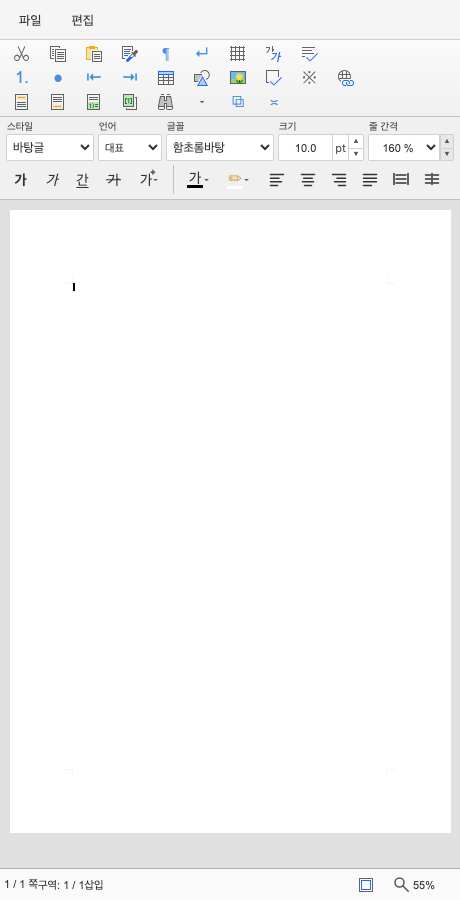
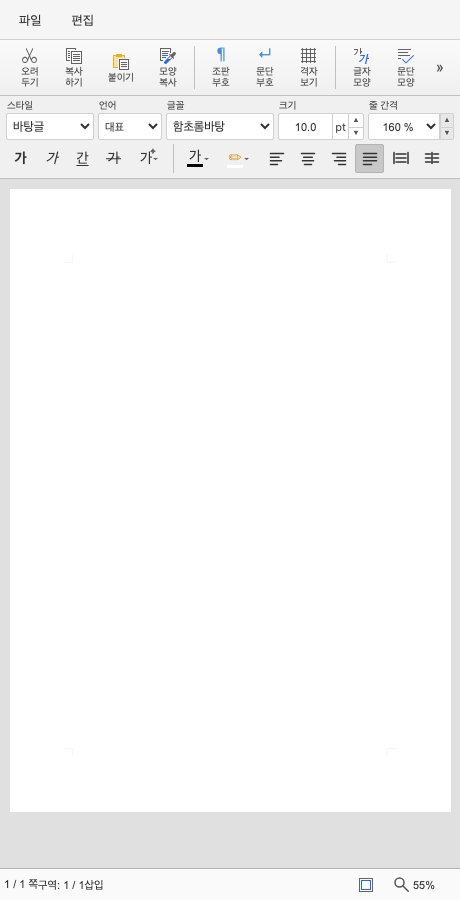
fix(studio): #6118 #6138 상단 chrome 시작축을 보정한다

Changed region(s): [[0.0, 0.0311, 1.0, 0.2489], [0.0, 0.9022, 1.0, 0.9333]]

diff --git a/rhwp-studio/tests/responsive-toolbar-layout.test.ts b/rhwp-studio/tests/responsive-toolbar-layout.test.ts
@@ -38,7 +38,7 @@ test('style ribbon has only measured one-row and two-row structures', () => {
   assert.match(styleBar, /#style-bar\s*\{[^}]*overflow:\s*visible;/s);
   assert.match(
     styleBar,
-    /@media\s*\(min-width:\s*976px\)\s*\{[\s\S]*?#style-bar\s*\{[^}]*display:\s*flex;[^}]*flex-wrap:\s*nowrap;/,
+    /@media\s*\(min-width:\s*992px\)\s*\{[\s\S]*?#style-bar\s*\{[^}]*display:\s*flex;[^}]*flex-wrap:\s*nowrap;/,
   );
   assert.match(
     styleBar,
@@ -50,7 +50,7 @@ test('style ribbon has only measured one-row and two-row structures', () => {
 test('style ribbon boundaries are content-derived and paragraph overflow never adds a third row', () => {
   assert.match(
     styleBar,
-    /@media\s*\(min-width:\s*976px\)/,
+    /@media\s*\(min-width:\s*992px\)/,
   );
   assert.match(
     styleBar,
@@ -62,4 +62,12 @@ test('style ribbon boundaries are content-derived and paragraph overflow never a
   );
   assert.doesNotMatch(responsive, /@media\s*\(min-width:\s*768px\) and \(max-width:\s*1023px\)/);
   assert.doesNotMatch(responsive, /#style-bar\s*\{[^}]*(?:flex-direction|grid-template-columns)/s);
+});
+
+test('desktop style ribbon uses the menu text visual anchor without spending compact width', () => {
+  assert.match(
+    styleBar,
+    /@media\s*\(min-width:\s*992px\)[\s\S]*?#style-bar\s*\{[^}]*padding:\s*var\(--style-bar-full-padding-top, 3px\) 8px 3px 22px;/,
+  );
+  assert.match(styleBar, /#style-bar\s*\{[^}]*padding:\s*4px 6px 5px;/s);
 });

diff --git a/rhwp-studio/tests/icon-toolbar-scroller.test.ts b/rhwp-studio/tests/icon-toolbar-scroller.test.ts
@@ -49,9 +49,12 @@ test('controller owns resize, mode, focus, keyboard, and end-state synchronizati
   assert.match(source, /dispose\(\): void/);
 });
 
-test('edge navigation keeps its slot while disappearing visually', () => {
+test('edge navigation collapses its slot while disappearing visually', () => {
   assert.match(toolbarCss, /\.tb-scroll-nav\.tb-scroll-nav-edge-hidden\s*\{[^}]*visibility:\s*hidden;/s);
   assert.match(toolbarCss, /\.tb-scroll-nav\.tb-scroll-nav-edge-hidden\s*\{[^}]*pointer-events:\s*none;/s);
+  assert.match(toolbarCss, /\.tb-scroll-nav\.tb-scroll-nav-edge-hidden\s*\{[^}]*flex-basis:\s*0;/s);
+  assert.match(toolbarCss, /\.tb-scroll-nav\.tb-scroll-nav-edge-hidden\s*\{[^}]*width:\s*0;/s);
+  assert.match(toolbarCss, /\.tb-scroll-nav\.tb-scroll-nav-edge-hidden\s*\{[^}]*min-width:\s*0;/s);
   assert.doesNotMatch(toolbarCss, /\.tb-scroll-nav\.tb-scroll-nav-edge-hidden\s*\{[^}]*display:\s*none;/s);
 });
 

diff --git a/rhwp-studio/tests/style-toolbar-overflow.test.ts b/rhwp-studio/tests/style-toolbar-overflow.test.ts
@@ -8,10 +8,10 @@ const source = readFileSync(new URL('../src/ui/style-toolbar-overflow.ts', impor
 const toolbar = readFileSync(new URL('../src/ui/toolbar.ts', import.meta.url), 'utf8');
 
 test('style toolbar breakpoints share the measured Stage 1 constants', () => {
-  assert.match(source, /STYLE_TOOLBAR_FULL_ROW_MIN = 976/);
+  assert.match(source, /STYLE_TOOLBAR_FULL_ROW_MIN = 992/);
   assert.match(source, /STYLE_TOOLBAR_COMMAND_INLINE_MIN = 460/);
   assert.match(source, /STYLE_TOOLBAR_COMMAND_INLINE_MIN - 1/);
-  assert.match(styles, /@media \(min-width: 976px\)/);
+  assert.match(styles, /@media \(min-width: 992px\)/);
   assert.match(styles, /@media \(max-width: 459px\)/);
 });
 

diff --git a/rhwp-studio/src/styles/style-bar.css b/rhwp-studio/src/styles/style-bar.css
@@ -746,8 +746,8 @@
   border-radius: 0;
 }
 
-/* 모든 콘텐츠가 들어가는 경계: 949.84px 콘텐츠 + chrome/safety = 976px. */
-@media (min-width: 976px) {
+/* 949.84px 콘텐츠 + 좌측 시각축 22px + 우측 8px + safety = 992px. */
+@media (min-width: 992px) {
   #style-bar {
     display: flex;
     flex-wrap: nowrap;
@@ -756,7 +756,7 @@
     align-content: center;
     justify-content: flex-start;
     gap: 0;
-    padding: var(--style-bar-full-padding-top, 3px) 6px 3px;
+    padding: var(--style-bar-full-padding-top, 3px) 8px 3px 22px;
   }
 
   .sb-field-ribbon-group {

diff --git a/rhwp-studio/src/styles/toolbar.css b/rhwp-studio/src/styles/toolbar.css
@@ -63,8 +63,13 @@
   display: none;
 }
 
-/* 끝에서는 해당 방향 버튼만 감추고 24px slot은 padding처럼 남겨 viewport 폭을 안정시킨다. */
+/* 끝에서는 해당 방향 버튼의 slot까지 접어 toolbar 고유 8px padding을 복원한다. */
 .tb-scroll-nav.tb-scroll-nav-edge-hidden {
+  flex-basis: 0;
+  width: 0;
+  min-width: 0;
+  overflow: hidden;
+  border-width: 0;
   visibility: hidden;
   pointer-events: none;
 }

diff --git a/rhwp-studio/tests/theme-skin.test.ts b/rhwp-studio/tests/theme-skin.test.ts
@@ -104,6 +104,6 @@ test('올드스쿨 스킨의 단일 행 서식 바는 양쪽 베벨을 포함해
   assert.match(oldschool, /--style-bar-full-padding-top:\s*2px/);
   assert.match(
     styleBar,
-    /@media \(min-width: 976px\)[\s\S]*padding:\s*var\(--style-bar-full-padding-top, 3px\) 6px 3px/,
+    /@media \(min-width: 992px\)[\s\S]*padding:\s*var\(--style-bar-full-padding-top, 3px\) 8px 3px 22px/,
   );
 });

diff --git a/rhwp-studio/src/ui/style-toolbar-overflow.ts b/rhwp-studio/src/ui/style-toolbar-overflow.ts
@@ -1,4 +1,4 @@
-export const STYLE_TOOLBAR_FULL_ROW_MIN = 976;
+export const STYLE_TOOLBAR_FULL_ROW_MIN = 992;
 export const STYLE_TOOLBAR_COMMAND_INLINE_MIN = 460;
 export const STYLE_TOOLBAR_OVERFLOW_QUERY = `(max-width: ${STYLE_TOOLBAR_COMMAND_INLINE_MIN - 1}px)`;
 

diff --git a/mydocs/working/task_m100_6118_stage3.md b/mydocs/working/task_m100_6118_stage3.md
@@ -12,16 +12,16 @@ Stage 2의 7개 viewport를 12개로 늘려 콘텐츠 경계와 일반 구간을
 
 | 구간 | viewport | 결과 |
 | --- | --- | --- |
-| 전체 압축 1행 | 1920, 1280, 1024, 976px | 1행, 36px, paragraph inline, root/style overflow 0 |
-| 압축 2행 inline | 975, 883, 768, 460px | 2행, 83px, paragraph inline, root/style overflow 0 |
+| 전체 압축 1행 | 1920, 1280, 1024, 992px | 1행, 36px, paragraph inline, root/style overflow 0 |
+| 압축 2행 inline | 991, 883, 768, 460px | 2행, 83px, paragraph inline, root/style overflow 0 |
 | 압축 2행 더보기 | 459, 412, 390, 375px | 2행, 83px, paragraph panel, root/style overflow 0 |
 
-경계 ±1px은 976/975px과 460/459px에서 정확히 전환됐다. 375px에서도 field 행이 내부 폭을 넘지
+경계 ±1px은 992/991px과 460/459px에서 정확히 전환됐다. 375px에서도 field 행이 내부 폭을 넘지
 않았고, 문단 명령은 더보기로 모두 도달 가능했다.
 
 ## 2. 테마·스킨 매트릭스
 
-`default`, `flat`, `oldschool` 각각에 light/dark를 적용하고 976px 단일 행, 460px inline 2행,
+`default`, `flat`, `oldschool` 각각에 light/dark를 적용하고 992px 단일 행, 460px inline 2행,
 375px 더보기 2행을 전수 검사했다. 총 18개 조합 모두 배경·경계·아이콘 대비와 panel 대비가 판정
 기준을 통과했다.
 
@@ -37,7 +37,7 @@ Stage 2의 7개 viewport를 12개로 늘려 콘텐츠 경계와 일반 구간을
 
 ## 3. 상호작용 검증
 
-- 976px에서 글자 크기 입력, 글자 효과 dropdown, 형광펜 palette, 글자색 input을 실제로 조작했다.
+- 992px에서 글자 크기 입력, 글자 효과 dropdown, 형광펜 palette, 글자색 input을 실제로 조작했다.
 - 459~375px에서 click·ArrowDown 열기, 첫 명령 focus, Escape 닫기와 trigger focus 복귀를 확인했다.
 - 외부 pointer와 문단 명령 실행으로 panel이 닫히고, 명령 실행 뒤 trigger로 focus가 복귀했다.
 - paragraph active 상태와 전체 disabled 상태가 더보기 trigger에 반영됐다.
@@ -48,7 +48,7 @@ Stage 2의 7개 viewport를 12개로 늘려 콘텐츠 경계와 일반 구간을
 
 | 모드 | 증적 |
 | --- | --- |
-| 976px 전체 압축 1행 | [stylebar-full-976.png](../report/assets/task_m100_6118/stylebar-full-976.png) |
+| 992px 전체 압축 1행 | [stylebar-full-992.png](../report/assets/task_m100_6118/stylebar-full-992.png) |
 | 460px 압축 2행 inline | [stylebar-inline-460.png](../report/assets/task_m100_6118/stylebar-inline-460.png) |
 | 375px 압축 2행 더보기 | [stylebar-overflow-375.png](../report/assets/task_m100_6118/stylebar-overflow-375.png) |
 
@@ -61,9 +61,9 @@ Studio chrome의 DOM/CSS/접근성 변경이며 renderer·layout·typeset·paint
 | --- | --- |
 | `npx tsc --noEmit` | 통과 |
 | Stage 3 focused 정적 계약 | 27 passed, 0 failed |
-| `npm test` | 1,141 passed, 0 failed, 1 skipped |
+| `npm test` | 1,149 passed, 0 failed, 1 skipped |
 | `npm run build` | 통과 |
-| responsive/theme E2E | 388 passed, 0 failed |
+| responsive/theme E2E | 626 passed, 0 failed |
 | `git diff --check` | 통과 |
 
 E2E는 `http://127.0.0.1:7718/`, Puppeteer headless shell, DPR 1에서 수행했다. 저장소 전체 E2E manifest
@@ -87,9 +87,20 @@ E2E는 `http://127.0.0.1:7718/`, Puppeteer headless shell, DPR 1에서 수행했
 시각 검토를 반영해 기존 정렬 SVG mask를 재사용한 `현재 문단 정렬 아이콘 + ▾`로 교체했다. 활성 정렬이
 바뀌면 trigger 아이콘과 `aria-label`·title이 함께 바뀌며, panel이 열리면 화살표와 버튼 표면도 열린
 상태를 표시한다. 문단 명령 실행 뒤 다음 frame에 trigger focus를 확정해 편집기 focus 갱신과의 경쟁도
-막았다. focused 28건, TypeScript, build와 전체 responsive/theme E2E 388건이 다시 통과했다.
+막았다. 이후 #6138 및 시작축 보정을 포함한 focused 27건, TypeScript, build와 전체 responsive/theme
+E2E 626건이 다시 통과했다.
 
 #6118의 로컬 구현과 Stage 3에 이어 #6138도 같은 브랜치에서 별도 계획·구현·커밋으로 완료했다.
 [통합 Stage 3](task_m100_6138_stage3.md)의 12개 viewport·18개 theme 매트릭스에서 두 영역을 다시
 검증했다. 최종 PR 하나에서 `#style-bar`와 `#icon-toolbar`의 책임을 각각 설명하고 두 이슈를 함께
 연결한다.
+
+## 8. 사용자 시각 검토 후속 — 데스크톱 시작축
+
+넓은 한 줄 모드에서 메뉴의 `파일` 텍스트와 첫 기본 도구 아이콘은 약 22~23px의 같은 시각적 시작축을
+가졌지만 서식 바의 `바탕글` 콤보만 6px에서 시작했다. 992px 이상에서 서식 바를 좌측 22px·우측 8px로
+조정해 첫 콤보 테두리를 메뉴 텍스트 축에 맞췄다. 증가한 16px을 콘텐츠 경계에 반영해 992/991px에서
+1행↔2행이 전환되며, 991px 이하의 2행과 375px 최소 field는 기존 6px 여백을 유지한다.
+
+실제 Chrome에서 1920·1280·1024·992px의 `파일` 텍스트와 첫 콤보 시작점 차이가 1px 이내이고,
+992/991px 경계 및 전체 테마 매트릭스에서 가로 overflow가 없음을 E2E로 확인했다.

diff --git a/mydocs/report/task_m100_6118_report.md b/mydocs/report/task_m100_6118_report.md
@@ -10,8 +10,8 @@
 
 기존 device breakpoint 중심의 1·2·3행 서식 바를 콘텐츠 폭 중심의 두 구조로 정리했다.
 
-- 976px 이상: field와 모든 command를 높이 36px의 단일 행으로 표시
-- 975~460px: field 1행과 command 1행의 83px 압축 2행
+- 992px 이상: field와 모든 command를 높이 36px의 단일 행으로 표시하고 첫 콤보를 메뉴 텍스트 축에 정렬
+- 991~460px: field 1행과 command 1행의 83px 압축 2행
 - 459~375px: 같은 2행을 유지하고 paragraph 명령만 더보기 panel로 표시
 - 모든 구간에서 `#style-bar`와 page-level 가로 overflow 0
 - 기존 field/command ID, 순서, listener, label, active/disabled authority 재사용
@@ -27,15 +27,15 @@
 | 단계 | 산출물 | 핵심 결정 |
 | --- | --- | --- |
 | 계획 | [수행계획](../plans/task_m100_6118.md), [구현계획](../plans/task_m100_6118_impl.md) | 최대 2행, paragraph만 동적 더보기 |
-| Stage 1 | [경계 계측](../working/task_m100_6118_stage1.md) | 976px, 460px, 지원 최소 375px |
+| Stage 1 | [경계 계측](../working/task_m100_6118_stage1.md) | 초기 976px + 시작축 16px = 최종 992px, 460px, 최소 375px |
 | Stage 2 | [구현 결과](../working/task_m100_6118_stage2.md) | 단일 DOM authority와 1·2행 CSS/controller |
 | Stage 3 | [검증 결과](../working/task_m100_6118_stage3.md) | 12 viewport, 18 theme cases, 실제 상호작용 |
 
 ## 3. 시각 결과
 
-| 976px 전체 1행 | 460px 2행 inline | 375px 2행 더보기 |
+| 992px 전체 1행 | 460px 2행 inline | 375px 2행 더보기 |
 | --- | --- | --- |
-| ![976px 전체 1행](assets/task_m100_6118/stylebar-full-976.png) | ![460px 2행 inline](assets/task_m100_6118/stylebar-inline-460.png) | ![375px 더보기](assets/task_m100_6118/stylebar-overflow-375.png) |
+| ![992px 전체 1행](assets/task_m100_6118/stylebar-full-992.png) | ![460px 2행 inline](assets/task_m100_6118/stylebar-inline-460.png) | ![375px 더보기](assets/task_m100_6118/stylebar-overflow-375.png) |
 
 default/flat/oldschool × light/dark의 18개 경계 화면도 같은 E2E가 생성하며, 배경·경계와 icon/panel
 대비가 모두 3:1 이상이다. oldschool 상·하 베벨에서만 단일 행이 37px이던 문제를 발견해 36px로
@@ -46,9 +46,9 @@ default/flat/oldschool × light/dark의 18개 경계 화면도 같은 E2E가 생
 | 게이트 | 결과 |
 | --- | --- |
 | TypeScript | 통과 |
-| Studio 전체 test | 1,141 passed, 0 failed, 1 skipped |
+| Studio 전체 test | 1,149 passed, 0 failed, 1 skipped |
 | Studio production build | 통과 |
-| responsive/theme browser E2E | 388 passed, 0 failed |
+| responsive/theme browser E2E | 626 passed, 0 failed |
 | 실제 인앱 브라우저 375px smoke | panel 열림·첫 명령 focus·overflow 0 |
 | Markdown 상대 링크·diff whitespace | 603문서 이상 없음·통과 |
 
@@ -65,6 +65,6 @@ checkout의 Rust manifest와 필수 `cargo fmt --all`·`cargo fmt --all -- --che
 - #6138: 위쪽 `#icon-toolbar`의 한 줄 그룹 스크롤 정책
 
 혼동을 줄이기 위해 이슈·계획·커밋·테스트는 분리하되 PR은 하나로 제출한다. #6138 구현 뒤 두 영역을
-동시에 포함하는 12개 viewport·18개 theme 매트릭스를 다시 실행했고 609개 판정이 통과했다. 상세 근거는
+동시에 포함하는 12개 viewport·18개 theme 매트릭스를 다시 실행했고 최종 626개 판정이 통과했다. 상세 근거는
 [#6138 통합 Stage 3](../working/task_m100_6138_stage3.md)에 있다. 현재 단계에서는 remote push와 PR 생성
 모두 수행하지 않았다.

diff --git a/mydocs/working/task_m100_6138_stage3.md b/mydocs/working/task_m100_6138_stage3.md
@@ -13,8 +13,8 @@
 | viewport | 기본 도구 상자 | 이동 버튼 | 서식 바 |
 | ---: | --- | --- | --- |
 | 1920, 1280px | 56px·1행·label 표시 | 숨김 | 36px·1행 |
-| 1024, 976px | 56px·1행·label 표시 | 표시 | 36px·1행 |
-| 975, 883, 768, 460px | 56px·1행·label 표시 | 표시 | 83px·2행 inline |
+| 1024, 992px | 56px·1행·label 표시 | 표시 | 36px·1행 |
+| 991, 883, 768, 460px | 56px·1행·label 표시 | 표시 | 83px·2행 inline |
 | 459, 412, 390, 375px | 56px·1행·label 표시 | 표시 | 83px·2행 더보기 |
 
 모든 구간에서 document root와 두 toolbar 외부의 가로 overflow는 0이다. 기본 도구 상자의 1219px track만
@@ -33,7 +33,7 @@
 
 ## 3. 테마·스킨 매트릭스
 
-`default`, `flat`, `oldschool` 각각에 light/dark를 적용하고 976px, 460px, 375px 세 경계를 전수
+`default`, `flat`, `oldschool` 각각에 light/dark를 적용하고 992px, 460px, 375px 세 경계를 전수
 검사했다. 총 18개 조합에서 기본 도구 상자는 56px·1행, 서식 바는 예정된 1·2행을 유지했다. nav의
 배경·경계·edge hidden 표현과 toolbar 배경 대비는 모두 자동 판정을 통과했으며 최소 대비는 4.10이다.
 
@@ -52,11 +52,11 @@ Studio chrome의 DOM/CSS/접근성 변경이며 renderer·layout·typeset·paint
 
 | 검증 | 결과 |
 | --- | --- |
-| focused source/controller/theme 계약 | 35 passed, 0 failed |
+| focused source/controller/theme 계약 | 27 passed, 0 failed |
 | `npx tsc --noEmit` | 통과 |
-| `npm test` | 1,148 passed, 0 failed, 1 skipped |
+| `npm test` | 1,149 passed, 0 failed, 1 skipped |
 | `npm run build` | 통과(230 modules transformed) |
-| responsive/theme/#6118 통합 E2E | 610 passed, 0 failed |
+| responsive/theme/#6118 통합 E2E | 626 passed, 0 failed |
 | Markdown 상대 링크·`git diff --check` | 603문서 이상 없음·통과 |
 | review checkout Rust suite manifest | 942 sources·32 harnesses·9 exceptions, 통과 |
 | `cargo fmt --all`·`cargo fmt --all -- --check` | 통과 |
@@ -81,9 +81,10 @@ E2E는 `http://127.0.0.1:7718/`, 설치된 Chrome, DPR 1에서 수행했다. E2E
 정규화한 뒤 첫 이동은 실제 두 번째 group 경계 191px, 다음 이동은 332px로 일치하며 목표 group의 첫
 버튼이 잘리지 않는다.
 
-또한 시작 `이전 숨김·다음 표시`, 중간 `양쪽 표시`, 끝 `이전 표시·다음 숨김`을 고정했다. 숨긴 24px
-slot은 양 끝 padding으로 남아 이동 중 viewport 폭과 최대 scroll 값이 변하지 않는다. focused 계약 11건,
-전체 Studio test 1,148건, TypeScript, build와 통합 E2E 610건이 다시 통과했다.
+또한 시작 `이전 숨김·다음 표시`, 중간 `양쪽 표시`, 끝 `이전 표시·다음 숨김`을 고정했다. 후속 보정으로
+숨긴 24px slot도 0으로 접어 시작·끝 track을 root의 8px padding에 맞췄다. 실제 viewport는 1024px에서
+984px, 375px에서 335px으로 넓어졌고 중간에서는 양쪽 버튼이 각각 24px을 차지한다. End/Home 전환 뒤
+최대 scroll과 양끝 정렬도 다시 계산한다. focused 계약 27건, TypeScript와 통합 E2E 626건이 통과했다.
 
 #6138의 로컬 구현과 Stage 3는 완료했다. #6118과 #6138은 이슈·계획·stage·커밋·검증을 분리해
 추적성을 유지하고, 원격에는 두 작업을 함께 설명하는 PR 한 건으로 제출한다. push와 PR 생성은 사용자

diff --git a/mydocs/plans/task_m100_6138_impl.md b/mydocs/plans/task_m100_6138_impl.md
@@ -50,15 +50,16 @@
 ## 4. DOM·CSS 계약
 
 - root: `display:flex`, `flex-wrap:nowrap`, `height/min-height:56px`, `overflow:hidden`
-- nav: overflow가 있을 때만 `hidden=false`, 고정 폭, theme token hover/focus/disabled. 시작·끝 해당 방향은
-  24px slot을 유지한 채 `visibility:hidden`으로 감춘다.
+- nav: overflow가 있을 때만 `hidden=false`, 보일 때 24px 고정 폭과 theme token hover/focus/disabled를
+  사용한다. 시작·끝 해당 방향은 `visibility:hidden`과 함께 flex basis·width·min-width를 0으로 접는다.
 - viewport: `flex:1`, `min-width:0`, `overflow-x:auto`, `overflow-y:hidden`, `touch-action:pan-x`
 - track: `display:flex`, `width:max-content`, `min-width:100%`, `height:100%`, `flex-wrap:nowrap`
 - group: `flex:0 0 auto`
 - scrollbar: Firefox·WebKit에서 시각적으로만 감추고 scroll 기능은 유지
 
-nav가 숨겨진 상태의 전체 폭으로 먼저 overflow를 판정한다. overflow면 두 nav가 공간을 차지하고
-ResizeObserver가 줄어든 viewport를 다시 측정해 안정된 최대 scroll 값을 만든다.
+nav가 숨겨진 상태의 전체 폭으로 먼저 overflow를 판정한다. overflow면 현재 이동 가능한 방향의 nav만
+공간을 차지하고 ResizeObserver가 viewport 변화와 최대 scroll 값을 다시 측정한다. 시작·중간·끝 전환으로
+viewport 폭이 바뀌어도 track 기준 group anchor를 사용하므로 목표 command는 잘리지 않는다.
 
 ## 5. 접근성 계약
 
@@ -66,8 +67,8 @@ ResizeObserver가 줄어든 viewport를 다시 측정해 안정된 최대 scroll
 - overflow가 없을 때 nav는 `hidden`이라 접근성 트리와 Tab 순서에서 제외한다.
 - viewport는 `aria-label="기본 도구 상자 명령"`을 제공한다.
 - 기존 button Tab 순서와 accessible name은 DOM 순서를 그대로 따른다.
-- 시작·끝 disabled·`aria-hidden`·시각 숨김은 화면 위치와 항상 일치하고, slot은 padding처럼 남아 viewport
-  폭이 바뀌지 않는다.
+- 시작·끝 disabled·`aria-hidden`·시각 숨김은 화면 위치와 항상 일치하고, 숨긴 slot은 0으로 접혀 root의
+  8px padding과 track 끝이 직접 맞닿는다.
 - #6115로 root가 숨겨지면 nav를 포함한 전체 껍데기가 함께 사라진다.
 
 ## 6. 테스트 설계
@@ -85,7 +86,7 @@ ResizeObserver가 줄어든 viewport를 다시 측정해 안정된 최대 scroll
 | viewport | 판정 |
 | --- | --- |
 | 1920, 1280px | 56px 한 줄, nav 숨김, 전체 group 표시 |
-| 1024, 976, 883, 768px | 56px 한 줄, nav 표시, label 유지, 그룹 버튼 이동 |
+| 1024, 992, 991, 883, 768px | 56px 한 줄, nav 표시, label 유지, 그룹 버튼 이동 |
 | 412, 375px | 56px 한 줄, 첫→끝→첫 group 도달, page overflow 없음 |
 
 overflow viewport에서 다음/이전 클릭, track 기준 `scrollLeft`, 시작·중간·끝 버튼 표시, horizontal wheel,
